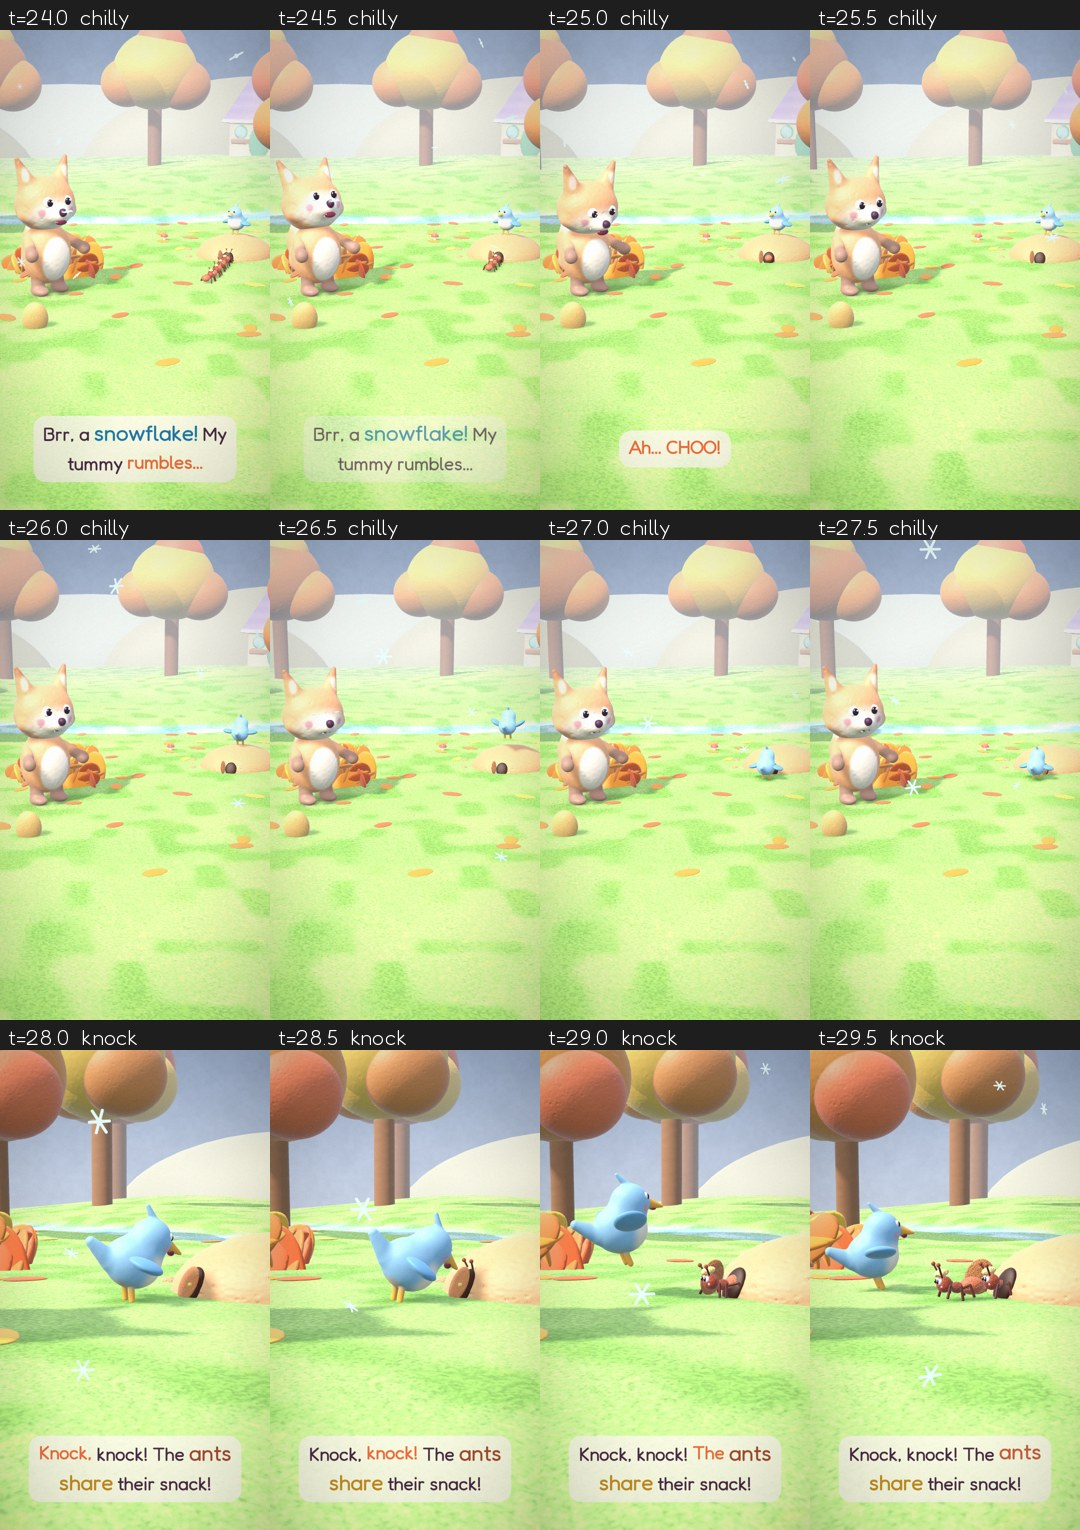
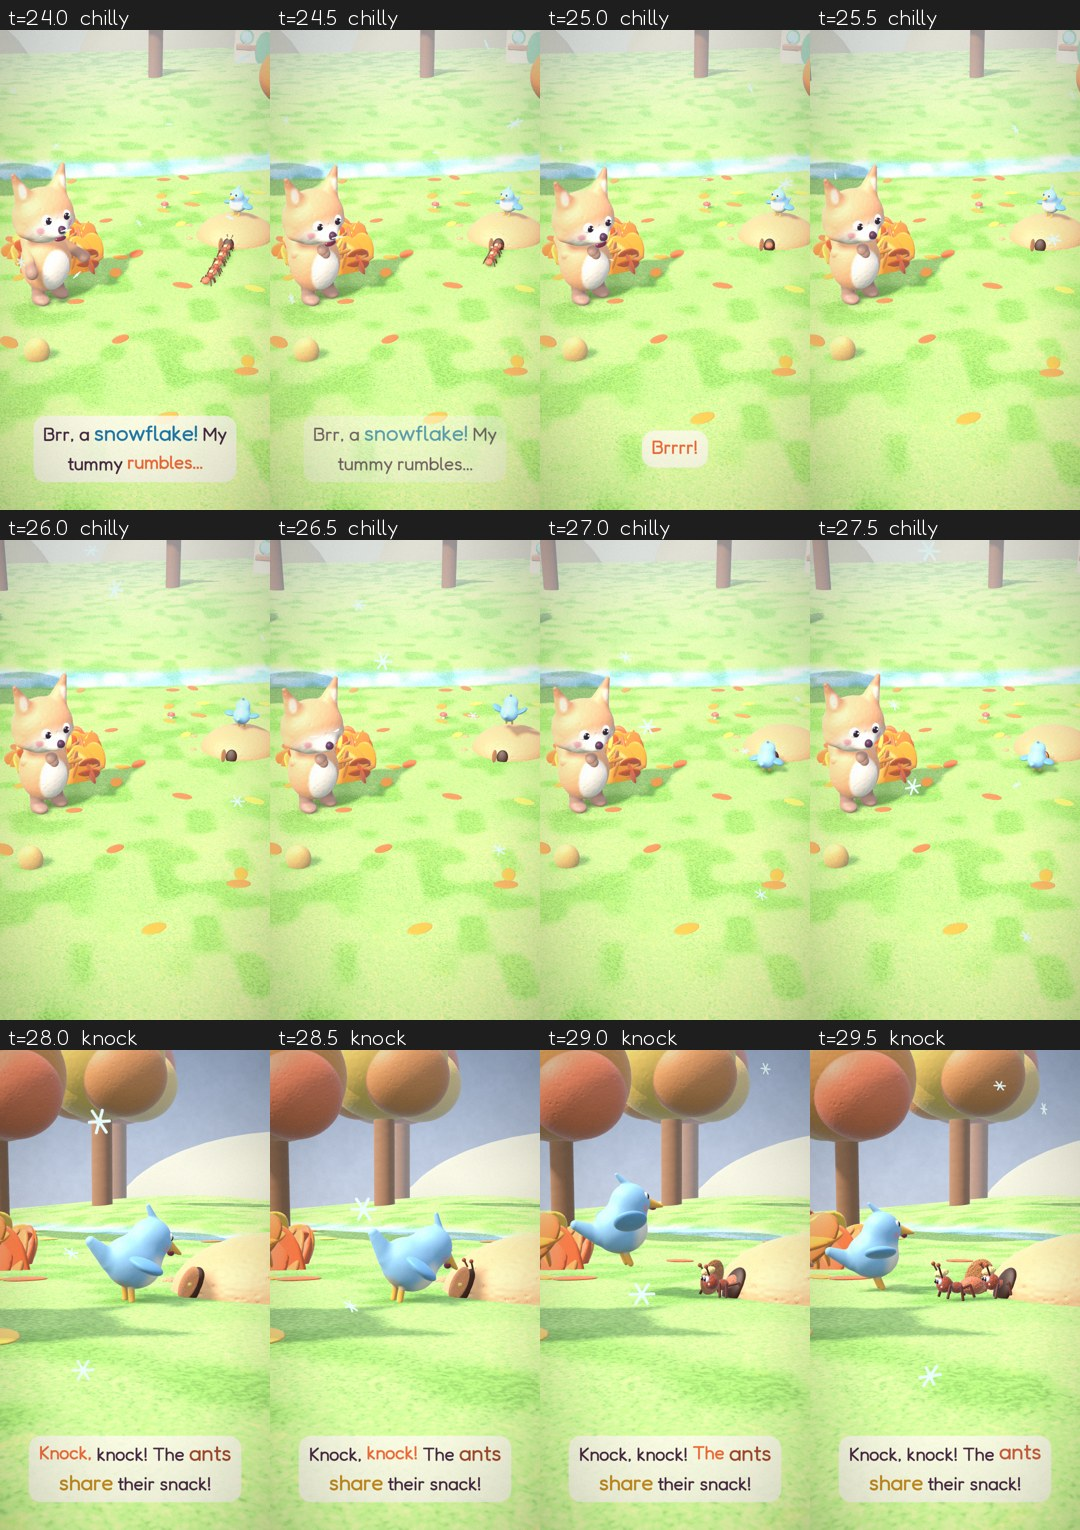
Fable 6: review round 1 fixes (wide framing, Brrr hug, seed grip, door in frame, Pip spots)
Claude-Session: https://claude.ai/code/session_01J5dJtYQYEWLfgMcSiZQKSY

diff --git a/batches/01-fables-friendship/fable-06-busy-little-ants/code/render.py b/batches/01-fables-friendship/fable-06-busy-little-ants/code/render.py
@@ -133,7 +133,7 @@ SNACK_LIE = DOOR_GROUND + DOOR_DIR * 2.0                  # Tumble on his tummy,
 MSPOT = tuple(DOOR_GROUND + DOOR_DIR * 1.55 - SIDE * 0.75)
 MOVE0 = (MSPOT[0] - 2.0, MSPOT[1] + 0.1)                   # next morning he walks in from the left with the seed
 BIG_SEED_AT = np.array([MSPOT[0] + 0.85, MSPOT[1]])         # the biggest seed, set down near the door
-PIP_WAIT = BIG_SEED_AT + np.array([0.55, -0.45])           # Pip waits here next morning, then hops to the paw
+PIP_WAIT = BIG_SEED_AT + np.array([0.5, 0.2])           # Pip waits here next morning, then hops to the paw
 KNOCK_AT = np.array([DOOR_P[0], DOOR_P[2]]) + DOOR_DIR * 0.46   # Pip's spot: a full peck (pitch 0.6) reaches the door
 WATCHERS = [DOOR_GROUND + SIDE * (0.35 + 0.3 * k) + DOOR_DIR * (0.25 + 0.12 * k) for k in range(5)]   # ants who watch the dance
 STASH = np.array([-0.78, NOSE_Z - 0.42])                   # loose seeds by the road (Pip takes one)
@@ -230,15 +230,11 @@ def tumble(t):
                 st["arms"] = [lerp([0.15, 0.0], [0.0, 1.0], h).tolist(), lerp([0.15, 0.0], [0.0, 1.0], h).tolist()]
                 st["sq"] += 0.03 * math.sin((t - T.RUMBLE) * 30) * math.exp(-max(0, t - T.RUMBLE) * 2)
         else:
-            st["arms"] = [[0.0, 1.0], [0.0, 1.0]]
-            d = t - T.SNEEZE
-            if -0.6 < d < 0:                                 # ah... (head back)
-                st["head"][0] = -0.3 * ease(clampu(t, T.SNEEZE - 0.6, T.SNEEZE - 0.1))
-            elif 0 <= d < 0.5:                               # CHOO!
-                st["head"][0] = -0.3 + 0.55 * math.sin(math.pi * min(d / 0.25, 1.0) / 2); st["sq"] -= 0.06 * math.exp(-d * 8)
-            elif d >= 0.5:
-                st["head"][0] = 0.25 * (1 - clampu(t, T.SNEEZE + 0.5, T.SNEEZE + 0.9))
-                st["x"] += 0.012 * math.sin(t * 40) * (1 - clampu(t, SH[n][1] - 0.6, SH[n][1]))   # shiver
+            h = ease(clampu(t, SH[n][0], SH[n][0] + 0.5))          # hugs his tummy and shivers ("Brrr!")
+            st["arms"] = [lerp([0.0, 1.0, 0.0], [0.1, 1.5, 1.3], h).tolist(), lerp([0.0, 1.0, 0.0], [0.1, 1.35, 1.3], h).tolist()]
+            st["head"][0] = 0.15 * h
+            sh = clampu(t, SH[n][0] + 0.3, SH[n][0] + 0.6) * (1 - clampu(t, SH[n][1] - 0.6, SH[n][1]))
+            st["x"] += 0.014 * math.sin(t * 40) * sh; st["roll"] = 0.03 * math.sin(t * 37) * sh
     elif n == "knock":                                       # watches from behind Pip
         st["x"], st["z"] = SNACK_LIE + DOOR_DIR * 0.4; st["yaw"] = math.atan2(-DOOR_DIR[0], -DOOR_DIR[1])
         st["arms"] = [[0.0, 1.0], [0.0, 1.0]]; st["head"][0] = 0.3
@@ -378,7 +374,7 @@ def _pip_state(t, st, mats):
             return q, yaw if u < 1 else math.atan2(SIDE[0], SIDE[1]) * 0.0 + yaw, u < 1, 0.0, u >= 1, {"cheer": u >= 1}
         return p, yaw, False, pk, True, {}
     if n == "snack":                                         # pecks a seed on the leaf too
-        p = pip_ground(LEAF_PLATE + SIDE * 0.5 - DOOR_DIR * 0.1)
+        p = pip_ground(LEAF_PLATE + SIDE * 0.8 + DOOR_DIR * 0.25)
         pk = 0.0
         for k in range(3):
             d = t - (SH[n][0] + 0.5 + 0.4 * k)
@@ -420,22 +416,22 @@ def camera(t):
     if name == "hook_ants":                                  # ant height, the line crossing in front of his nose
         return fit_cam(np.array([LIE[0] + 0.05, 0.42, NOSE_Z - 0.35]), lerp(8, 2, e), 6, 0.9, 0.7, lift=0.04)
     if name == "title_wide":
-        return fit_cam(np.array([-0.2, 0.9, 0.6]), -4, 18, 3.4, 2.4 if not WIDE else 1.9, lift=0.03)
+        return fit_cam(np.array([-0.2 if not WIDE else -0.9, 0.9 if not WIDE else 1.7, 0.6]), -4, 18, 3.4, 2.4 if not WIDE else 1.9, lift=0.03)
     if name == "leaf_play":
         return fit_cam(np.array([PILE[0] + 0.2, 1.15, PILE[1] + 1.2]), lerp(-24, -18, e), 7, 1.5, 1.55)
     if name == "pip_work":                                   # side-on macro: Pip, the line, Tumble beyond
         tgt = np.array([PIPW[0] + 0.1, 0.4, PIPW[1] + 0.25])
-        return fit_cam(tgt, lerp(24, 18, e), 7, 0.8, 0.62, lift=0.04)
+        return fit_cam(tgt + (np.array([0, 0.0, 0]) if not WIDE else np.array([0, 0.35, 0])), lerp(24, 18, e), 7, 0.8, 0.62 if not WIDE else 1.3, lift=0.04)
     if name == "pip_carry":                                  # low tracking with Pip
         pp = pip_state(t, st, fox_mats_p(st))[0]
         return fit_cam(np.array([pp[0] - 0.1, 0.35, pp[2] - 0.2]), 18, 5, 0.85, 0.6, lift=0.03)
     if name == "ant_hat":                                    # low, from the front, the line coming between his feet
-        return fit_cam(np.array([GAG[0] + 0.05, lerp(1.05, 1.0, e), GAG[1]]), 90 + lerp(-12, -5, e), -4, 1.2, 1.25, lift=0.05)
+        return fit_cam(np.array([GAG[0] + 0.05, lerp(1.05, 1.0, e), GAG[1]]), 90 + lerp(-12, -5, e), -4, 1.2, 1.25 if not WIDE else 1.9, lift=0.05 if not WIDE else 0.2)
     if name == "snowflake":                                  # face close-up
         fx = apply(fox_mats_p(st)[1], NOSE)
         return fit_cam(fx + np.array([0, 0.05, 0]), math.degrees(st["yaw"]) + lerp(-8, -2, e), 4, 0.6, 0.62, lift=0.08)
     if name == "chilly":
-        return fit_cam(np.array([(GAG2[0] + DOOR_P[0]) / 2 - 0.2, 0.85, (GAG2[1] + DOOR_P[2]) / 2 + 0.3]), -8 + 4 * e, 14, 2.3, 1.45)
+        return fit_cam(np.array([(GAG2[0] + DOOR_P[0]) / 2 - (0.2 if not WIDE else 0.5), 0.85, (GAG2[1] + DOOR_P[2]) / 2 + 0.3]), -8 + 4 * e, 26, 2.3, 1.45)
     if name == "knock":                                      # side-on at the door
         tgt = DOOR_P + DOOR_DIR3() * 0.4 + np.array([0, 0.05, 0])
         return fit_cam(tgt, side_on_yaw(DOOR_P, DOOR_P + DOOR_DIR3(), 70) + lerp(-4, 4, e), 8, 0.85, 0.7, lift=0.04)
@@ -443,7 +439,8 @@ def camera(t):
         mid = np.array([LEAF_PLATE[0] * 0.6 + SNACK_LIE[0] * 0.4, 0.45, LEAF_PLATE[1] * 0.6 + SNACK_LIE[1] * 0.4])
         return fit_cam(mid, math.degrees(math.atan2(DOOR_DIR[0], DOOR_DIR[1])) + 180 + lerp(48, 42, e), 30, 1.3, 1.0, lift=0.04)
     if name == "next_day":                                   # tracking, low
-        return fit_cam(np.array([st["x"] + 0.35, 0.95, st["z"] + 0.1]), lerp(52, 40, e), 5, 1.8, 1.35)
+        mid = (np.array([st["x"], st["z"]]) + np.array([DOOR_P[0], DOOR_P[2]])) / 2
+        return fit_cam(np.array([mid[0], 0.85, mid[1]]), lerp(-6, -12, e), 5, 2.0 if not WIDE else 2.5, 1.35)
     if name == "moral":
         return fit_cam(np.array([MSPOT[0] + 0.25, lerp(1.35, 1.45, e), MSPOT[1]]), lerp(14, 8, e), 5, lerp(1.35, 1.15, e), lerp(1.4, 1.15, e))
     if name == "chorus":
@@ -587,9 +584,11 @@ def build_draws(t):
             draws.append((PR["ball"], trans(q[0], surf(*q) + 0.025, q[1]) @ roty(k) @ scale(0.034, 0.025, 0.05), U(mat=0, bump=0.3, tint=SEED_C, tintMix=1.0), False))
     if n == "pip_carry" and pip[5].get("beak"):
         Mp = trans(*pip[0]) @ roty(pip[1]) @ rotx(pip[3]) @ scale(1.1)
-        draws.append((PR["ball"], Mp @ trans(0, 0.3, 0.33) @ roty(math.pi / 2) @ scale(0.03, 0.022, 0.045), U(mat=0, bump=0.3, tint=SEED_C, tintMix=1.0, obj="pip"), False))
+        draws.append((PR["ball"], Mp @ trans(0, 0.3, 0.25) @ roty(math.pi / 2) @ scale(0.03, 0.022, 0.045), U(mat=0, bump=0.3, tint=SEED_C, tintMix=1.0, obj="pip"), False))
     hs = head_seed(t, mats)
-    if hs: draws.append((PR["ball"], hs[0] @ scale(*HEAD_SEED_R), U(mat=0, bump=0.4, tint=(0.93, 0.74, 0.45), tintMix=1.0, obj="hseed"), True))
+    if hs:
+        hz = lerp(0.36, HEAD_SEED_R[2], clampu(t, T.TOSS, T.TOSS + 0.15)) if t < T.SEED_ON else HEAD_SEED_R[2]   # held: long enough to reach both paws
+        draws.append((PR["ball"], hs[0] @ scale(HEAD_SEED_R[0], HEAD_SEED_R[1], hz), U(mat=0, bump=0.4, tint=(0.93, 0.74, 0.45), tintMix=1.0, obj="hseed"), True))
     if n in ("snowflake", "chilly"):
         p = SEED_ON_GROUND
         draws.append((PR["ball"], trans(p[0], surf(*p) + HEAD_SEED_R[1] - 0.01, p[1]) @ rotx(-1.2) @ scale(*HEAD_SEED_R), U(mat=0, bump=0.4, tint=(0.93, 0.74, 0.45), tintMix=1.0, obj="hseed"), True))
@@ -617,11 +616,10 @@ def build_draws(t):
     if n == "chilly" and t < T.SNEEZE + 0.5:
         if t < T.SNEEZE:
             draw_flake(draws, apply(Mh, NOSE) + apply(Mh, (0, 0.03, 0.05)) - apply(Mh, (0, 0, 0)), 0.08, spin=0.3, tilt=1.2)
-        else:                                                # blown off by the sneeze, spinning away
+        else:                                                # shaken off by the shiver, falling away
             u = clampu(t, T.SNEEZE, T.SNEEZE + 0.5)
-            p = apply(Mh, NOSE) + apply(Mh, (0, 0.4 * u, 0.9 * u)) - apply(Mh, (0, 0, 0))
+            p = apply(Mh, NOSE) + apply(Mh, (0, -0.5 * u, 0.25 * u)) - apply(Mh, (0, 0, 0))
             draw_flake(draws, p, 0.08 * (1 - u), spin=t * 9, tilt=1.2)
-    if n == "chilly": puff(draws, apply(Mh, NOSE) + np.array([0, 0, 0.1]), T.SNEEZE, t, n=8, size=0.04, spread=0.6, dur=0.4, tint=(0.95, 0.97, 1.0))
     amount = 0.0
     if n == "snowflake": amount = 0.2 * clampu(t, T.FLAKE_LAND + 0.3, SH[n][1])
     elif n in ("chilly", "knock", "snack"): amount = 0.55
@@ -630,10 +628,10 @@ def build_draws(t):
     if n == "button_crane":
         a = SH[n][0]; ph = pip[0] + np.array([0, 0.55, 0])
         if t < a + 1.0:
-            u = clampu(t, a, a + 1.0); draw_flake(draws, ph + np.array([0.1 * math.sin(u * 6), 1.0 * (1 - u), 0]), 0.04, spin=t, tilt=0.9)
+            u = clampu(t, a, a + 1.0); draw_flake(draws, ph + np.array([0.1 * math.sin(u * 6), 1.0 * (1 - u), 0]), 0.08, spin=t, tilt=0.9)
         elif t < a + 1.6:
             u = clampu(t, a + 1.0, a + 1.6)
-            draw_flake(draws, ph + np.array([0.5 * u, 0.2 * math.sin(math.pi * u) - 0.4 * u * u, 0]), 0.04 * (1 - u * 0.8), spin=t * 9, tilt=0.9)
+            draw_flake(draws, ph + np.array([0.5 * u, 0.2 * math.sin(math.pi * u) - 0.4 * u * u, 0]), 0.08 * (1 - u * 0.8), spin=t * 9, tilt=0.9)
         puff(draws, ph, a + 1.0, t, n=7, size=0.03, spread=0.5, dur=0.35, tint=(0.95, 0.97, 1.0))
     # bursts
     for j in T.LEAF_HOPS: puff(draws, np.array([PILE[0], 0.45, PILE[1] + 0.3]), j + 0.35, t, n=12, size=0.06, spread=1.1, dur=0.5, tint=(0.97, 0.66, 0.3), axis=(0, 0.8, 0.3))

diff --git a/batches/01-fables-friendship/fable-06-busy-little-ants/code/timeline.py b/batches/01-fables-friendship/fable-06-busy-little-ants/code/timeline.py
@@ -116,6 +116,6 @@ SET_DOWN = _tw[1] - 0.6                                                 # the bi
 HIGH_FIVE = _c[1] - 0.9
 _wob = line("Problem A")["t1"] + 0.35
 SPOKEN = [dict(file="s00_tumble", who="tumble", t0=_wob, caption="Wibble-wobble!", tags="[giggling] [playful]"),
-          dict(file="s01_tumble", who="tumble", t0=SNEEZE - 0.35, caption="Ah... CHOO!", tags="[sneezing] [cute]"),
+          dict(file="s01_tumble", who="tumble", t0=SNEEZE - 0.35, caption="Brrrr!", tags="[shivering] [cute]"),
           dict(file="s02_tumble", who="tumble", t0=NIBBLE, caption="Mmm, crunchy!", tags="[delighted]"),
           dict(file="s03_both", who="both", t0=_bt[0] + 0.7, caption="Bye-bye!", tags="[cheerful]")]
